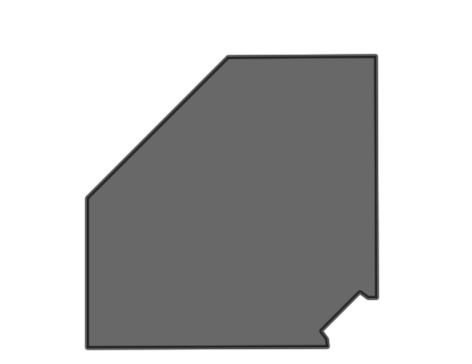
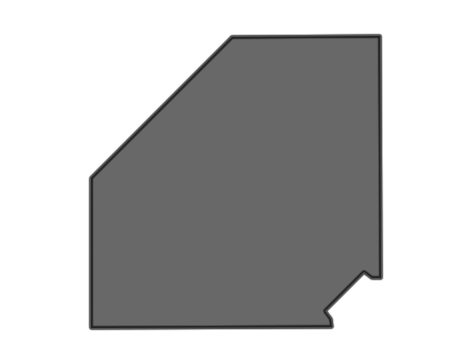
melhorias no minimap

Changed region(s): [[0.178, 0.0907, 0.8305, 0.967]]

diff --git a/Assets/Scripts/UI/Minimap/MinimapUI.cs b/Assets/Scripts/UI/Minimap/MinimapUI.cs
@@ -15,6 +15,8 @@ namespace Geneforge.UI.Minimap
 
         [Header("Layout Settings")]
         [SerializeField] private float spacing = 100f;
+        [Tooltip("Use this to manually align the map under the player icon.")]
+        [SerializeField] private Vector2 mapCenterOffset;
 
         [Header("Room Icons (Backup)")]
         [SerializeField] private Sprite iconHub;
@@ -71,20 +73,61 @@ namespace Geneforge.UI.Minimap
                     playerMarker.localRotation = Quaternion.Euler(0, 0, -playerTransform.eulerAngles.y);
                 }
 
-                // 3. MOVIMENTO CONTÍNUO DO PLAYER (Enquanto caminha)
-                if (playerMarker != null && DungeonMapManager.Instance != null)
+                if (playerMarker != null)
                 {
+                    playerMarker.SetAsLastSibling();
+                }
+
+                // 3. POSICIONAMENTO FINAL
+                if (playerMarker != null && DungeonMapManager.Instance != null && DungeonMapManager.Instance.CurrentHub != null)
+                {
+                    // --- GARANTIR QUE O PLAYER ESTÁ SEMPRE POR CIMA ---
+                    // Se o playerMarker e o iconsContainer estiverem no mesmo pai (ex: dentro da Mask),
+                    // o playerMarker tem de ser o último para ser desenhado por cima.
+                    playerMarker.SetAsLastSibling();
+
                     float worldUnitsPerRoom = DungeonMapManager.Instance.RoomSpacing;
                     float scale = spacing / worldUnitsPerRoom;
                     
-                    Vector3 worldPos = playerTransform.position;
-                    
-                    // Atualiza a posição continuamente (será sobrescrita pelo snap quando entrar numa sala)
-                    playerMarker.anchoredPosition = new Vector2(worldPos.x * scale, worldPos.z * scale);
-                }
+                    Vector3 hubPos = DungeonMapManager.Instance.CurrentHub.transform.position;
+                    Vector3 worldPosRelToHub = playerTransform.position - hubPos;
 
-                // 4. MAPA ESTÁTICO (Não desliza)
-                iconsContainer.anchoredPosition = Vector2.zero;
+                    // --- DETECÇÃO AUTOMÁTICA DE SAÍDA DE SALA ---
+                    if (currentRoom != null)
+                    {
+                        Vector2Int gridPos = currentRoom.DirectionFromHub.ToGridOffset();
+                        Vector3 roomWorldCenter = hubPos + new Vector3(gridPos.x, 0, gridPos.y) * worldUnitsPerRoom;
+                        float dist = Vector3.Distance(playerTransform.position, roomWorldCenter);
+                        
+                        // Se estivermos longe demais do centro, saímos do modo snap
+                        if (dist > worldUnitsPerRoom * 0.55f) 
+                        {
+                            currentRoom = null;
+                        }
+                    }
+
+                    if (currentRoom != null)
+                    {
+                        // --- MODO SALA (ESTÁTICO TOTAL) ---
+                        // 1. O ícone do jogador fica "colado" no centro absoluto da máscara
+                        playerMarker.anchoredPosition = Vector2.zero;
+
+                        // 2. O mapa faz snap para que a sala fique exatamente sob o ícone do player
+                        Vector2Int gridPos = currentRoom.DirectionFromHub.ToGridOffset();
+                        Vector2 roomCenterMinimapPos = new Vector2(gridPos.x * spacing, gridPos.y * spacing);
+                        iconsContainer.anchoredPosition = -roomCenterMinimapPos + mapCenterOffset;
+                    }
+                    else
+                    {
+                        // --- MODO CORREDOR (POSIÇÃO LIVRE) ---
+                        // 1. O mapa segue a posição real do jogador para manter o player no centro
+                        Vector2 playerPosOnMap = new Vector2(worldPosRelToHub.x * scale, worldPosRelToHub.z * scale);
+                        iconsContainer.anchoredPosition = -playerPosOnMap + mapCenterOffset;
+
+                        // 2. O ícone do jogador fica no centro
+                        playerMarker.anchoredPosition = Vector2.zero;
+                    }
+                }
             }
         }
 
